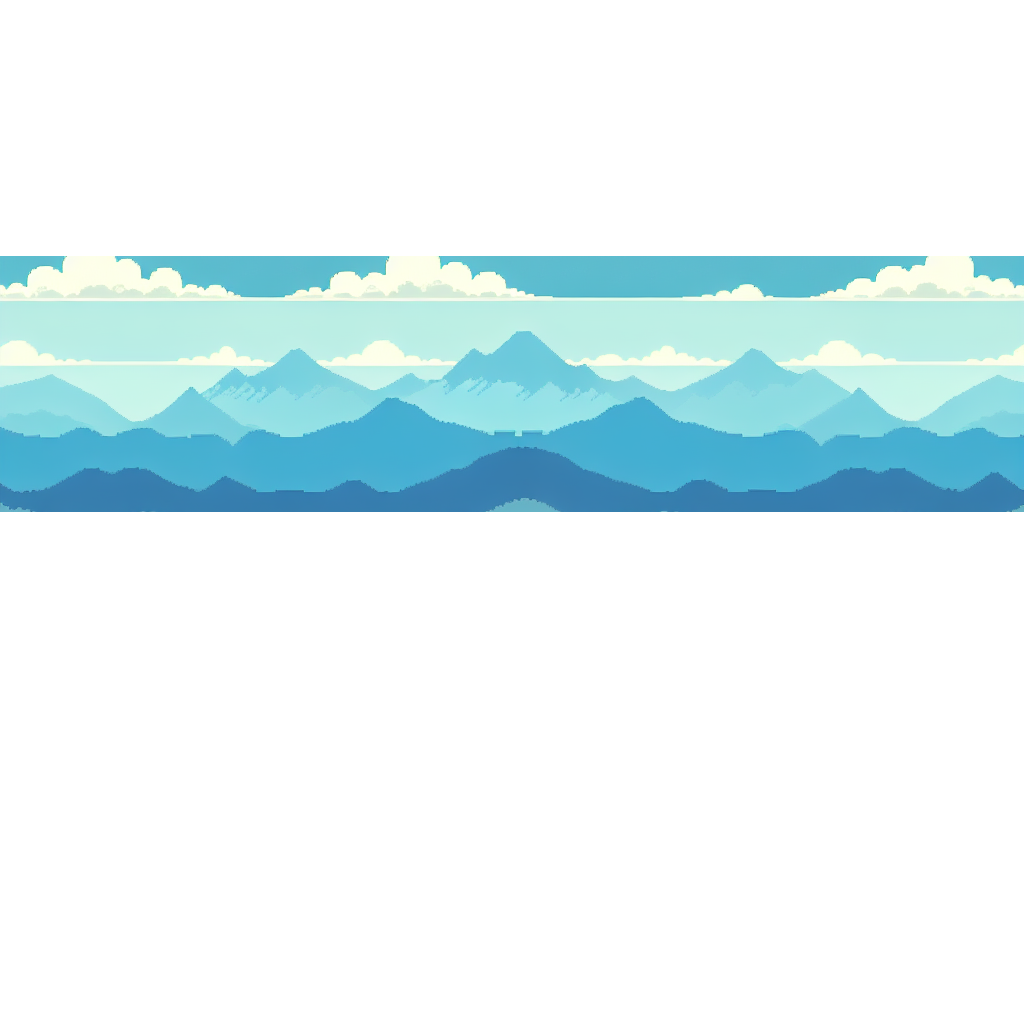
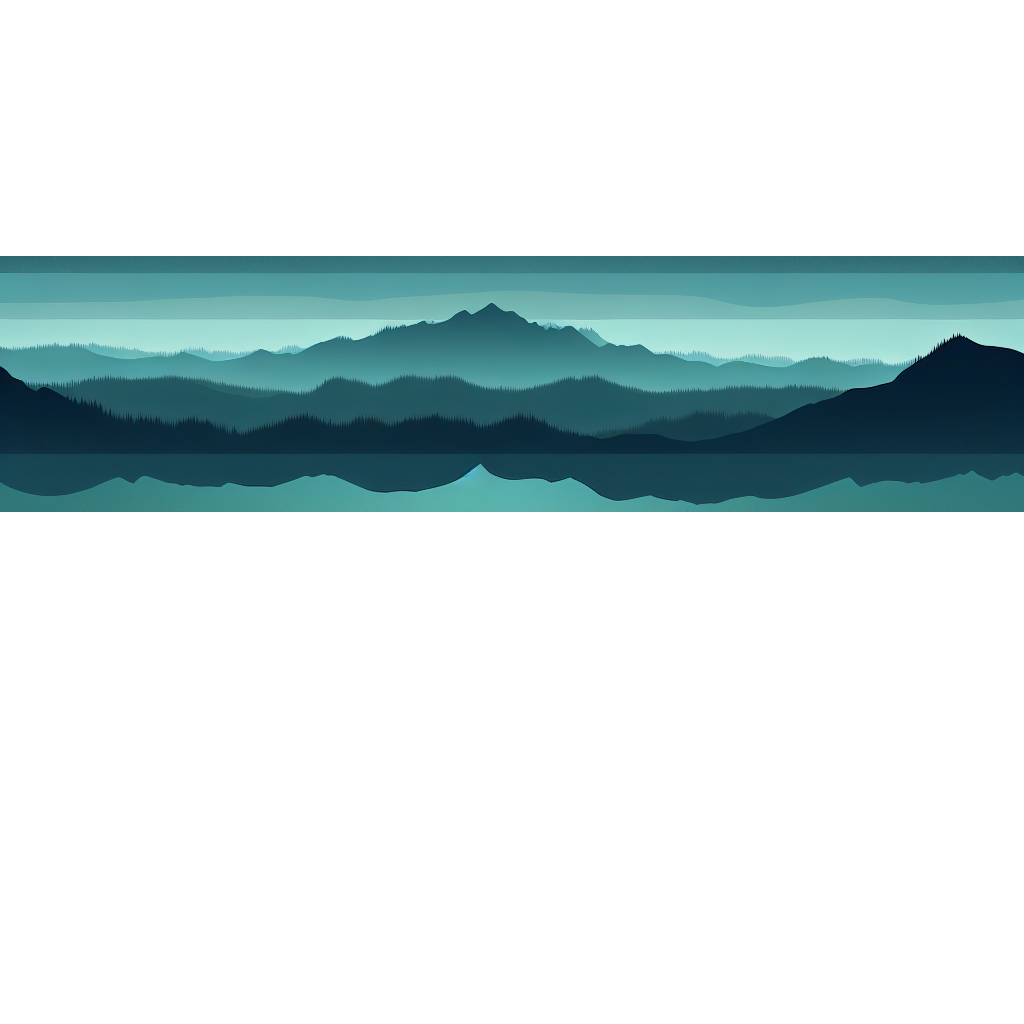
🦀Generated files for 2025-06-25🦀

Changed region(s): [[0.0, 0.25, 1.0, 0.5]]

diff --git a/README.md b/README.md
@@ -19,6 +19,4 @@ Additionally, the GIF generation pipeline may produce totally botched results wh
 
 ![image](images/image_current.png)
 
-**Prompt:** Background for 2d side-scrolling game, which have 4 separate horizontal layers.  
-Layer 1 (256px): Far background with distant mountains and sky, using deep blues and light cyan to create depth and atmosphere.  
-Layer 2 (512px): Mid-distant elements such as rolling hills, sparse trees, and clouds, with slightly lighter and more varied colors to suggest proximity.
+**Prompt:** Background for 2d side-scrolling game, which have 4 separate horizontal layers. Layer 1: The far background features a distant mountain range with layered silhouettes in dark blue and teal shades, creating depth and atmospheric perspective. Layer 2: The mid-distant layer includes rolling hills and sparse trees in lighter blues and greens, adding some variation and distance.
